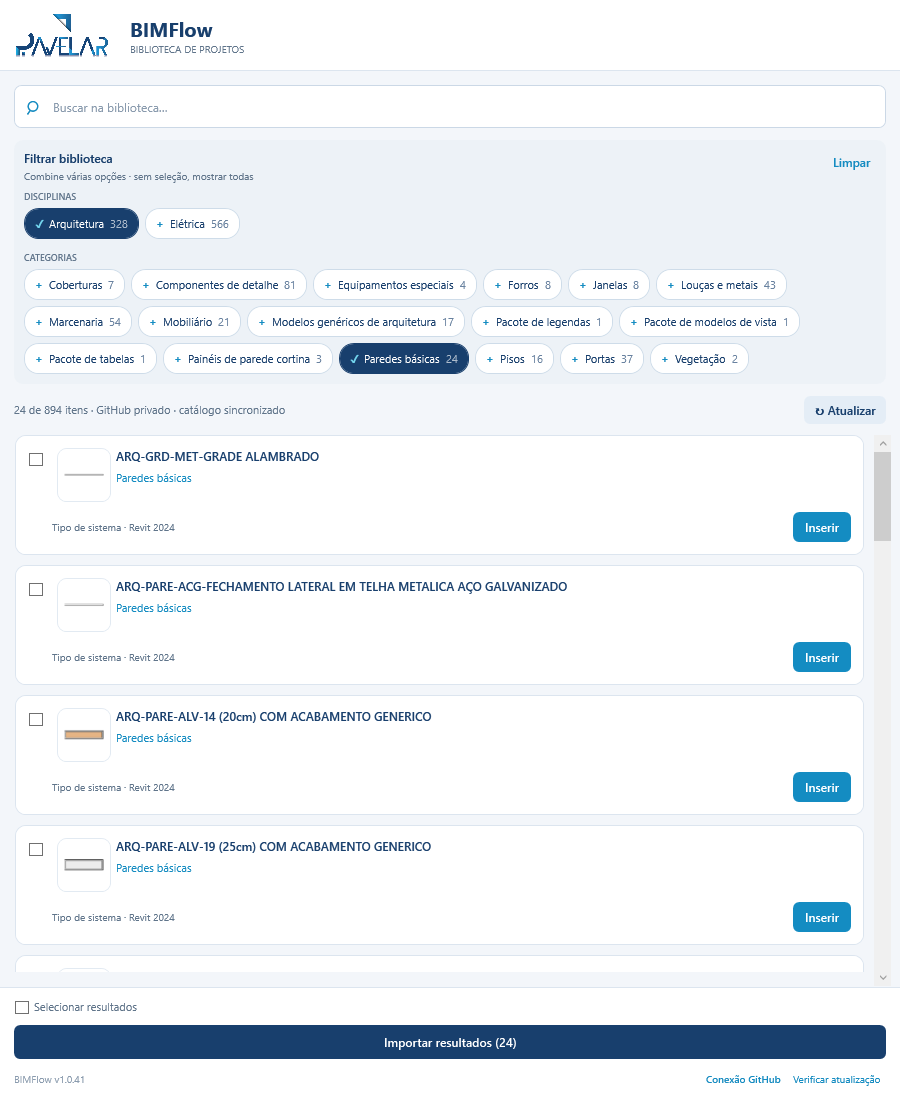
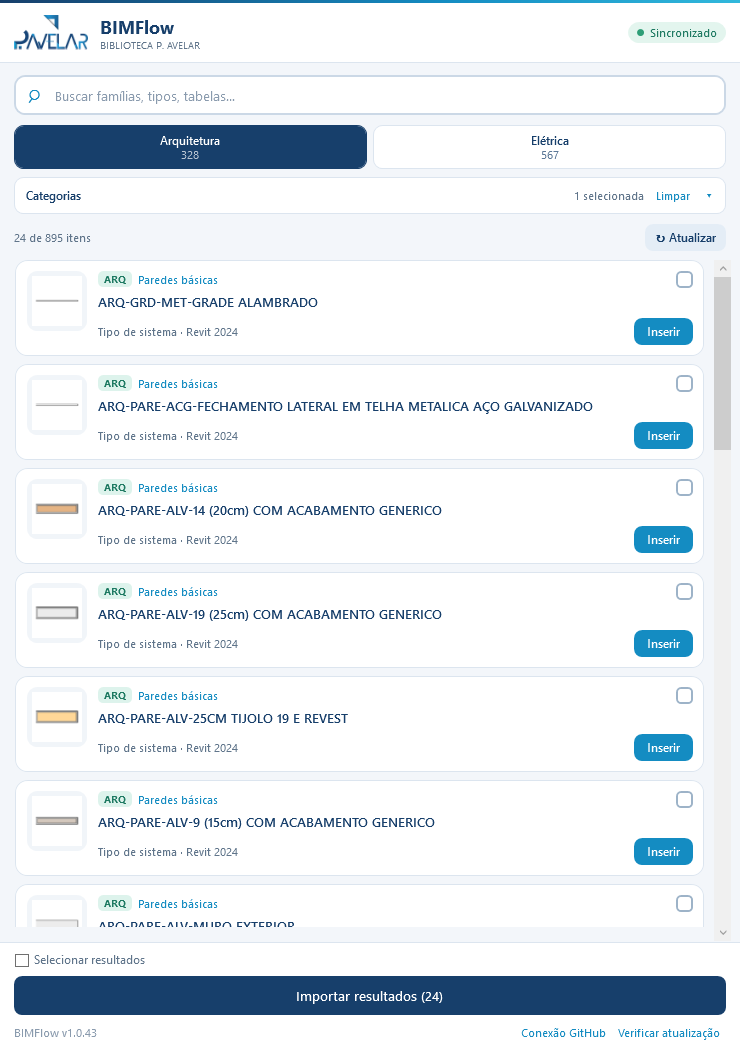
Document shared installer maintenance, completed roadmap and current library panel

diff --git a/index.html b/index.html
@@ -1,33 +1,28 @@
 <!doctype html>
 <html lang="pt-BR"><head><meta charset="utf-8"><meta name="viewport" content="width=device-width,initial-scale=1"><meta name="description" content="Guia de operação e continuidade do BIMFlow: biblioteca P. Avelar, arquitetura, elétrica, publicação no GitHub e próximos passos."><meta name="theme-color" content="#173f6b"><title>BIMFlow · P. Avelar | Guia da biblioteca</title><link rel="stylesheet" href="guia/estilo.css"></head><body>
 <header><div class="topbar"><a class="brand" href="#inicio"><img src="guia/pavelar-logo.png" alt="P. Avelar"><span>BIMFlow<small>BIBLIOTECA CORPORATIVA</small></span></a><nav aria-label="Navegação principal"><a href="#entregas">Entregas</a><a href="#roadmap">Evolução</a><a href="#operacao">Como usar</a><a href="#instalacao">Instalação</a><a href="#continuidade">Continuidade</a></nav><div class="top-actions"><a class="button light" href="#instalacao">Instalações</a><button class="button" id="imprimir">Imprimir / PDF</button></div></div></header>
-<section class="hero" id="inicio"><div class="hero-grid" aria-hidden="true"></div><div class="hero-inner"><div class="eyebrow">P. AVELAR · BIBLIOTECA E PADRONIZAÇÃO BIM</div><div class="hero-columns"><div><h1>Uma biblioteca.<br>Um caminho para<br><em>todas as disciplinas.</em></h1><p>O BIMFlow reúne busca, importação e publicação de conteúdo Revit. Elétrica e arquitetura iniciam uma estrutura que pode ser mantida e ampliada pela equipe BIM.</p><div class="hero-actions"><a class="button cyan" href="#roadmap">Ver evolução <span>↓</span></a><a class="hero-link" href="#operacao">Consultar o procedimento →</a></div><div class="hero-meta"><span>Revit 2024 / 2025*</span><span>Biblioteca privada</span><span id="data-atualizacao">Atualizado em 27/10/2026</span></div></div><aside class="hero-summary"><span class="eyebrow">RESULTADO DO ACERVO ATUAL</span><div class="hero-total"><strong id="total-tipos">889</strong><span>tipos catalogados<br>nas duas disciplinas</span></div><div class="hero-breakdown"><div><span>Elétrica</span><b>564 tipos</b></div><div><span>Arquitetura</span><b>325 tipos</b></div><div><span>Pacotes de vistas</span><b>5 pacotes</b></div></div><p>Tipos e pacotes são contagens diferentes. O painel reúne <b id="total-itens">894 itens</b>.</p><div class="hero-state"><i></i><span>Distribuição GitHub em validação final</span></div></aside></div></div></section>
-<main><div class="release-note"><span class="pill validation">EM HOMOLOGAÇÃO</span><p>A <a id="release-atual" href="https://github.com/RodriguesAlexandre/bimflow-revit-plugin/releases/tag/v1.0.41">v1.0.41</a> está publicada e no <a href="#instalacao">instalador da rede</a> (código preparado: <b id="versao-preparada">v1.0.41</b>). Falta homologar o fluxo online dentro do Revit.</p></div>
-<section id="entregas"><div class="section-heading"><div><span class="eyebrow">01 · ENTREGAS E NÚMEROS</span><h2>Conteúdo de duas disciplinas.<br>Uma estrutura compartilhada.</h2></div><p>Quantidades conferidas nos catálogos exportados. Cada tipo é uma opção Revit; tabelas, legendas e modelos são reunidos em pacotes.</p></div><div id="disciplinas-cards" class="discipline-grid"></div><div class="table-card"><table><thead><tr><th>Conteúdo</th><th>Elétrica</th><th>Arquitetura</th><th>Como aparece no painel</th></tr></thead><tbody id="numeros-corpo"></tbody></table></div><div class="delivery-strip"><div><b>24</b><span>paredes básicas<br>de arquitetura</span></div><div><b>16 / 8 / 7</b><span>pisos / forros / coberturas<br>de arquitetura</span></div><div><b>48</b><span>modelos de vista<br>exportados em arquitetura</span></div><div><b>30</b><span>verificações da<br>integração online aprovadas</span></div></div><p class="caption">Elétrica tem 7 tipos de eletrodutos e 4 de eletrocalhas. Modelos de vista também são suportados em elétrica, mas ainda não constam no pacote elétrico migrado; entram na próxima exportação dessa disciplina.</p></section>
-<section id="roadmap"><div class="section-heading"><div><span class="eyebrow">02 · EVOLUÇÃO DA SOLUÇÃO</span><h2>O que está entregue.<br>O que vem a seguir.</h2></div><div class="status-filters" aria-label="Destacar etapas por situação"><button data-filter="todos" aria-pressed="true">Todas</button><button data-filter="concluido" aria-pressed="false">Concluídas</button><button data-filter="validacao" aria-pressed="false">Em validação</button><button data-filter="pendente" aria-pressed="false">Pendentes</button></div></div><div class="roadmap-surface"><div class="roadmap-caption"><span>P. AVELAR · BIMFLOW</span><b>Do acervo aprovado à operação corporativa</b></div><div id="roadmap-steps" class="roadmap-chain"></div><div class="flow-legend"><span><i class="green"></i> Recurso implementado</span><span><i class="amber"></i> Validação e publicação final</span><span><i class="blue"></i> Próximas entregas</span></div></div><p id="filter-note" class="caption" aria-live="polite">Leia da esquerda para a direita, linha por linha. Os filtros destacam as etapas sem apagar o caminho.</p></section>
+<section class="hero" id="inicio"><div class="hero-grid" aria-hidden="true"></div><div class="hero-inner"><div class="eyebrow">P. AVELAR · BIBLIOTECA E PADRONIZAÇÃO BIM</div><div class="hero-columns"><div><h1>Uma biblioteca.<br>Um caminho para<br><em>todas as disciplinas.</em></h1><p>O BIMFlow reúne busca, importação e publicação de conteúdo Revit. Elétrica e arquitetura iniciam uma estrutura que pode ser mantida e ampliada pela equipe BIM.</p><div class="hero-actions"><a class="button cyan" href="#roadmap">Ver evolução <span>↓</span></a><a class="hero-link" href="#operacao">Consultar o procedimento →</a></div><div class="hero-meta"><span>Revit 2024 / 2025*</span><span>Biblioteca privada</span><span id="data-atualizacao">Atualizado em 27/10/2026</span></div></div><aside class="hero-summary"><span class="eyebrow">RESULTADO DO ACERVO ATUAL</span><div class="hero-total"><strong id="total-tipos">889</strong><span>tipos catalogados<br>nas duas disciplinas</span></div><div class="hero-breakdown"><div><span>Elétrica</span><b>564 tipos</b></div><div><span>Arquitetura</span><b>325 tipos</b></div><div><span>Pacotes de vistas</span><b>6 pacotes</b></div></div><p>Tipos e pacotes são contagens diferentes. O painel reúne <b id="total-itens">895 itens</b>.</p><div class="hero-state"><i></i><span>Elétrica e arquitetura no GitHub privado</span></div></aside></div></div></section>
+<main><div class="release-note"><span class="pill done">VERSÃO ATUALIZADA</span><p>A <a id="release-atual" href="https://github.com/RodriguesAlexandre/bimflow-revit-plugin/releases/tag/v1.0.43">v1.0.43</a> corrige a confirmação do upload no Revit 2024 e está no <a href="#instalacao">instalador compartilhado</a> (código: <b id="versao-preparada">v1.0.43</b>). O fluxo foi homologado pela equipe; a manutenção do instalador fica no Drive.</p></div>
+<section id="entregas"><div class="section-heading"><div><span class="eyebrow">01 · ENTREGAS E NÚMEROS</span><h2>Conteúdo de duas disciplinas.<br>Uma estrutura compartilhada.</h2></div><p>Quantidades conferidas nos catálogos exportados. Cada tipo é uma opção Revit; tabelas, legendas e modelos são reunidos em pacotes.</p></div><div id="disciplinas-cards" class="discipline-grid"></div><div class="table-card"><table><thead><tr><th>Conteúdo</th><th>Elétrica</th><th>Arquitetura</th><th>Como aparece no painel</th></tr></thead><tbody id="numeros-corpo"></tbody></table></div><div class="delivery-strip"><div><b>24</b><span>paredes básicas<br>de arquitetura</span></div><div><b>16 / 8 / 7</b><span>pisos / forros / coberturas<br>de arquitetura</span></div><div><b>60</b><span>modelos de vista<br>12 elétrica · 48 arquitetura</span></div><div><b>33</b><span>verificações da<br>integração online aprovadas</span></div></div><p class="caption">Elétrica tem 7 tipos de eletrodutos e 4 de eletrocalhas. Os pacotes incluem 12 modelos de vista de elétrica e 48 de arquitetura.</p></section>
+<section id="roadmap"><div class="section-heading"><div><span class="eyebrow">02 · EVOLUÇÃO DA SOLUÇÃO</span><h2>O que está entregue.<br>O que vem a seguir.</h2></div><div class="status-filters" aria-label="Destacar etapas por situação"><button data-filter="todos" aria-pressed="true">Todas</button><button data-filter="concluido" aria-pressed="false">Concluídas</button><button data-filter="andamento" aria-pressed="false">Em trabalho</button><button data-filter="pendente" aria-pressed="false">Pendentes</button></div></div><div class="roadmap-surface"><div class="roadmap-caption"><span>P. AVELAR · BIMFLOW</span><b>Do acervo aprovado à operação corporativa</b></div><div id="roadmap-steps" class="roadmap-chain"></div><div class="flow-legend"><span><i class="green"></i> Recurso implementado</span><span><i class="amber"></i> Atividade em trabalho</span><span><i class="blue"></i> Próximas entregas</span></div></div><p id="filter-note" class="caption" aria-live="polite">Leia da esquerda para a direita, linha por linha. Os filtros destacam as etapas sem apagar o caminho.</p></section>
 <section id="fluxo"><div class="section-heading"><div><span class="eyebrow">03 · COMO A BIBLIOTECA CIRCULA</span><h2>Publicar uma revisão.<br>Distribuir sem depender do Drive.</h2></div><p>O setor BIM prepara o conteúdo. Os projetistas consultam o catálogo online e baixam apenas os modelos necessários para o computador.</p></div><div class="process-flow"><article><span>01</span><h3>RVT aprovado</h3><p>Qualquer nome e pasta, com as alterações salvas.</p></article><article><span>02</span><h3>Exportação local</h3><p>RFAs, RVT, JSONs, imagens e relatório são gerados e validados.</p></article><article><span>03</span><h3>GitHub privado</h3><p>Catálogos no repositório; arquivos pesados nas Releases.</p></article><article><span>04</span><h3>Painel + cache</h3><p>Lista e miniaturas primeiro. RFA ou RVT baixado sob demanda.</p></article><article><span>05</span><h3>Projeto Revit</h3><p>Importação e solicitação da ferramenta de inserção.</p></article></div><div class="two-col"><div class="card"><h3>Uma revisão só entra quando está pronta</h3><p>A publicação é montada em rascunho. Depois do envio e das conferências, um único commit atualiza o índice e os catálogos. Falhas não devem substituir a revisão ativa.</p><p class="muted">Arquivos baixados são conferidos por SHA-256. O cache permite reutilizar conteúdo já recebido; sem uma primeira sincronização, não há biblioteca offline.</p></div><div class="card"><h3>Acesso fora da DLL</h3><p>As credenciais ficam no <b>Gerenciador de Credenciais do Windows</b>, por usuário do computador. O painel tem a opção <b>Conexão GitHub</b>.</p><p class="muted">Leitura para projetistas; publicação para o setor BIM. O token precisa ter acesso ao repositório privado. Nenhum token deve entrar no código, no JSON do catálogo ou no site.</p></div></div></section>
-<section id="interface"><div class="section-heading"><div><span class="eyebrow">04 · INTERFACE E COMANDOS</span><h2>Uma entrada para buscar.<br>Uma rotina para manter.</h2></div><p>O painel concentra busca e importação. Os comandos de gestão ficam separados das ferramentas de padronização.</p></div><figure class="ribbon-figure"><img src="guia/ribbon-atual.svg" alt="Ribbon BIMFlow: Biblioteca BIMFlow; Exportar Catálogo e Publicar Biblioteca; Parâmetros de Folhas"><figcaption>Representação da ribbon preparada no código v1.0.41, usando os ícones reais. A instalação desta versão e a conferência no Revit ainda fazem parte da homologação.</figcaption></figure><div class="table-card"><table><thead><tr><th>Painel</th><th>Comando</th><th>Finalidade</th></tr></thead><tbody><tr><td>Biblioteca</td><td>Biblioteca BIMFlow</td><td>Buscar, filtrar, selecionar, importar e iniciar a inserção do conteúdo.</td></tr><tr><td>Gestão da biblioteca</td><td>Exportar Catálogo</td><td>Preparar a disciplina e, opcionalmente, publicar a revisão no GitHub.</td></tr><tr><td>Gestão da biblioteca</td><td>Publicar Biblioteca</td><td>Enviar um pacote local já exportado, sem processar o RVT novamente.</td></tr><tr><td>Padronização</td><td>Parâmetros de Folhas</td><td>Carregar ou verificar os parâmetros compartilhados corporativos de folhas.</td></tr></tbody></table></div><div class="two-col interface-block"><div><h3>O painel evita etapas repetidas</h3><ul class="check-list"><li>Busca por nomes, palavras e quantidades, combinada com filtros de disciplina e categoria.</li><li>Importação individual, por seleção ou de todos os resultados filtrados.</li><li>Reutilização de tipos já existentes no projeto, com validações dos sistemas suportados.</li><li>Pacotes de tabelas, legendas e modelos de vista.</li><li>Credenciais individuais e indicação de catálogo sincronizado ou cache offline.</li></ul><div class="note"><b>Modelos de vista:</b> são importados como modelos; não são aplicados automaticamente às vistas existentes. Modelos com mesmo nome e tipo no destino são preservados.</div></div><figure><img id="painel-imagem" class="panel-image" src="guia/painel-online.png" alt="Prévia da interface BIMFlow com disciplinas e categorias da biblioteca"><figcaption>Prévia renderizada a partir da interface preparada e dos catálogos reais. Não substitui o teste de importação e inserção dentro do Revit.</figcaption></figure></div><details class="video-details"><summary>Ver demonstração do piloto elétrico</summary><video controls autoplay muted loop playsinline preload="metadata"><source data-src="demonstracao-bimflow.mp4" type="video/mp4"></video><p class="caption">Gravação do piloto anterior à integração GitHub. Serve como referência do fluxo de busca e inserção; os rótulos e comandos atuais estão descritos acima.</p></details></section>
+<section id="interface"><div class="section-heading"><div><span class="eyebrow">04 · INTERFACE E COMANDOS</span><h2>Uma entrada para buscar.<br>Uma rotina para manter.</h2></div><p>O painel concentra busca e importação. Os comandos de gestão ficam separados das ferramentas de padronização.</p></div><figure class="ribbon-figure"><img src="guia/ribbon-atual.svg" alt="Ribbon BIMFlow: Biblioteca BIMFlow; Exportar Catálogo e Publicar Biblioteca; Parâmetros de Folhas"><figcaption>Representação da ribbon preparada no código v1.0.43, usando os ícones reais. O painel e o instalador usam a versão atual.</figcaption></figure><div class="table-card"><table><thead><tr><th>Painel</th><th>Comando</th><th>Finalidade</th></tr></thead><tbody><tr><td>Biblioteca</td><td>Biblioteca BIMFlow</td><td>Buscar, filtrar, selecionar, importar e iniciar a inserção do conteúdo.</td></tr><tr><td>Gestão da biblioteca</td><td>Exportar Catálogo</td><td>Preparar a disciplina e, opcionalmente, publicar a revisão no GitHub.</td></tr><tr><td>Gestão da biblioteca</td><td>Publicar Biblioteca</td><td>Enviar um pacote local já exportado, sem processar o RVT novamente.</td></tr><tr><td>Padronização</td><td>Parâmetros de Folhas</td><td>Carregar ou verificar os parâmetros compartilhados corporativos de folhas.</td></tr></tbody></table></div><div class="two-col interface-block"><div><h3>O painel evita etapas repetidas</h3><ul class="check-list"><li>Busca por nomes, palavras e quantidades, combinada com filtros de disciplina e categoria.</li><li>Importação individual, por seleção ou de todos os resultados filtrados.</li><li>Reutilização de tipos já existentes no projeto, com validações dos sistemas suportados.</li><li>Pacotes de tabelas, legendas e modelos de vista.</li><li>Credenciais individuais e indicação de catálogo sincronizado ou cache offline.</li></ul><div class="note"><b>Modelos de vista:</b> são importados como modelos; não são aplicados automaticamente às vistas existentes. Modelos com mesmo nome e tipo no destino são preservados.</div></div><figure><img id="painel-imagem" class="panel-image" src="guia/painel-online.png" alt="Prévia da interface BIMFlow com disciplinas e categorias da biblioteca"><figcaption>Prévia renderizada a partir da interface preparada e dos catálogos reais. Interface atualizada com cabeçalho de sincronização, categorias recolhíveis e identificação da disciplina.</figcaption></figure></div><details class="video-details"><summary>Ver demonstração do piloto elétrico</summary><video controls autoplay muted loop playsinline preload="metadata"><source data-src="demonstracao-bimflow.mp4" type="video/mp4"></video><p class="caption">Gravação do piloto anterior à integração GitHub. Serve como referência do fluxo de busca e inserção; os rótulos e comandos atuais estão descritos acima.</p></details></section>
 <section id="operacao"><div class="section-heading"><div><span class="eyebrow">05 · PROCEDIMENTO DE OPERAÇÃO</span><h2>Quem faz o quê.</h2></div><p>Use os procedimentos abaixo para trabalhar no projeto, atualizar o acervo e manter a solução.</p></div><div class="role-tabs" role="tablist" aria-label="Procedimentos por perfil"><button id="tab-projetista" role="tab" data-role="projetista" aria-selected="true" aria-controls="role-projetista">Projetista</button><button id="tab-bim" role="tab" data-role="bim" aria-selected="false" aria-controls="role-bim">Setor BIM</button><button id="tab-manutencao" role="tab" data-role="manutencao" aria-selected="false" aria-controls="role-manutencao">Manutenção</button></div><div id="role-projetista" class="role-panel" role="tabpanel" aria-labelledby="tab-projetista"><ol class="numbered"><li><b>Instalar e acessar.</b> Fechar o Revit, rodar o <a href="#instalacao">instalador da rede</a> e configurar a credencial de leitura em Conexão GitHub.</li><li><b>Sincronizar.</b> Abrir o projeto e clicar em Atualizar no painel. Conferir as disciplinas disponíveis.</li><li><b>Buscar e inserir.</b> Combinar texto e filtros. Ao clicar em Inserir, o plugin baixa o conteúdo necessário, importa e solicita a ferramenta nativa de criação.</li><li><b>Trabalhar com pacotes.</b> Importar tabelas, legendas ou modelos de vista. Aplicar modelos às vistas pelo Revit.</li></ol><p class="muted">Se o tipo exigir hospedeiro, vista compatível ou desenho de contorno, o Revit solicitará essa interação. O painel não elimina essas condições de criação.</p></div><div id="role-bim" class="role-panel" role="tabpanel" aria-labelledby="tab-bim" hidden><ol class="numbered"><li><b>Curar o RVT.</b> Carregar as famílias aprovadas, revisar nomes e tipos, tabelas, legendas e modelos. Salvar as alterações.</li><li><b>Escolher a disciplina.</b> Executar Exportar Catálogo. O RVT pode ter qualquer nome e estar em qualquer pasta acessível.</li><li><b>Preparar e conferir.</b> Aguardar a coleta e validar o relatório. Tipos sem instâncias também são inventariados. Genéricos exigem prefixo ELD- ou ARQ- conforme a disciplina.</li><li><b>Publicar.</b> Manter a opção de publicação no GitHub marcada ou usar Publicar Biblioteca sobre um pacote local pronto.</li><li><b>Homologar e comunicar.</b> Testar em um projeto de destino e informar a revisão liberada à equipe.</li></ol><p class="muted">A publicação exige credencial com permissão de escrita. Se o envio falhar, o pacote local pode ser reenviado; não é necessário repetir toda a exportação.</p></div><div id="role-manutencao" class="role-panel" role="tabpanel" aria-labelledby="tab-manutencao" hidden><ol class="numbered"><li><b>Obter o código.</b> Clonar o repositório do plugin e abrir BIMFlow/BIMFlow.sln. As classes estão separadas em Commands, Models, Services e UI.</li><li><b>Executar as verificações.</b> Compilar em Release para net48/Revit 2024 e net8.0-windows/Revit 2025. Executar o projeto BIMFlow.Library.Tests.</li><li><b>Homologar no Revit.</b> Testar exportação, publicação, leitura, importação e inserção. Não considerar a compilação como homologação funcional.</li><li><b>Versionar e publicar.</b> Atualizar a versão do projeto e as notas da release. O workflow de publicação do plugin é disparado por uma tag v*.</li><li><b>Distribuir.</b> Conferir o BIMFlow.zip da release. Fechar o Revit antes de substituir os arquivos instalados; manter backup da versão anterior.</li></ol><p class="muted">A release do plugin e as revisões da biblioteca são independentes. Publicar uma DLL não atualiza os catálogos e publicar famílias não troca a DLL dos usuários.</p></div></section>
 <section id="instalacao"><div class="section-heading"><div><span class="eyebrow">06 · INSTALAÇÃO E ATUALIZAÇÃO</span><h2>Instalar pela rede.<br>Acompanhar quem está atualizado.</h2></div><p>O instalador fica no Drive compartilhado. O dashboard mostra a versão do plugin em cada computador que abriu o Revit.</p></div>
 <div class="install-grid">
 <div class="card install-card"><span class="pill done">PROJETISTA</span><h3>Instalar ou atualizar o BIMFlow</h3><ol class="numbered compact"><li><b>Feche o Revit.</b> O instalador avisa e espera se ele estiver aberto.</li><li><b>Execute o instalador da rede.</b><code class="path">G:\Drives compartilhados\BIM\PLUG INS\BIMFlow\Instalador_BIMFlow.exe</code></li><li><b>Avance até concluir.</b> Não pede administrador e instala para Revit 2024 e 2025.</li><li><b>Abra o Revit e confira.</b> O rodapé do painel BIMFlow mostra a versão instalada.</li><li><b>Configure o acesso.</b> No painel, em Conexão GitHub, informe a credencial de leitura entregue pelo setor BIM.</li></ol><p class="muted">Instalar de novo sobre uma versão anterior substitui os arquivos. Não é preciso desinstalar antes.</p></div>
 <div class="card live-card" id="painel-instalacoes"><div class="live-head"><span class="pill validation">DASHBOARD DE INSTALAÇÕES</span><span class="live-state" id="inst-estado">Carregando…</span></div><h3>Versão de referência <b id="inst-ref">—</b></h3><div class="live-numbers"><div><strong id="inst-total">—</strong><span>instalações<br>registradas</span></div><div class="ok"><strong id="inst-ok">—</strong><span>na referência<br>ou acima</span></div><div class="warn"><strong id="inst-baixo">—</strong><span>abaixo da<br>referência</span></div></div><div class="live-list-title">Precisam atualizar</div><ul class="live-list" id="inst-lista"><li class="muted">—</li></ul><a class="button" href="telemetria/">Abrir dashboard completo ↗</a><p class="muted live-note">Cada instalação é um computador + versão do Revit, registrada quando o plugin abre. Sem contato recente não significa que a máquina esteja desligada.</p></div>
 </div>
-<details class="card build-card" open><summary>Manutenção · Gerar um novo instalador</summary><p>O instalador é gerado com o <b>Inno Setup 6</b> a partir da pasta <code>D:\BIMFLOW\P. AVELAR\PLUGIN NOVO</code>. Faça isso depois de publicar e homologar uma release do plugin.</p><ol class="numbered"><li><b>Compile em Release.</b> No Visual Studio, abra <code>BIMFlow.sln</code>, selecione Release e use Build &gt; Build Solution. A versão vem de <code>&lt;Version&gt;</code> no BIMFlow.Extension.csproj.</li><li><b>Atualize a pasta Base.</b> Copie as saídas da compilação para as pastas indicadas abaixo, substituindo os arquivos. Não coloque backups, DLLs antigas nem arquivos de teste na Base: tudo que estiver nela vai para o computador do usuário.</li><li><b>Troque a versão no script.</b> Abra <code>Script_BIMFlow.iss</code> no Inno Setup Compiler e altere a linha <code>#define AppVer "1.0.41"</code>.</li><li><b>Compile o instalador.</b> Build &gt; Compile (Ctrl+F9). O arquivo sai em <code>BIMFlow_Output\Instalador_BIMFlow_v&lt;versão&gt;.exe</code>.</li><li><b>Teste.</b> Com o Revit fechado, instale em um computador e confira a versão no rodapé do painel, no Revit 2024 e, se houver, no 2025.</li><li><b>Publique na rede.</b> Mova o instalador atual para <code>PLUG INS\BIMFlow\Versões anteriores</code> e copie o novo com o nome fixo <code>Instalador_BIMFlow.exe</code>.</li><li><b>Atualize a referência do dashboard.</b> Em <code>telemetria/config.json</code> deste site, ajuste <code>referenceVersion</code> e <code>referenceRelease</code> e envie ao GitHub.</li></ol>
-<div class="two-col build-detail"><div><h4>Origem → destino na Base</h4><div class="table-card"><table class="mini-table"><thead><tr><th>Copiar de (repositório)</th><th>Para (Base)</th></tr></thead><tbody><tr><td>BIMFlow.Extension\bin\Release\net48\</td><td>BIMFlow\net48\</td></tr><tr><td>BIMFlow.Extension\bin\Release\net8.0-windows\ + Octokit.dll</td><td>BIMFlow\net8.0-windows\</td></tr><tr><td>BIMFlow.Updater\bin\Release\net8.0\ (sem .pdb)</td><td>BIMFlow\Updater\</td></tr></tbody></table></div><p class="muted">Copie DLL, Octokit.dll, deps.json, o TXT de parâmetros compartilhados e a pasta Resource. Os arquivos .pdb e .addin da pasta bin não são necessários.</p></div><pre>PLUGIN NOVO\
+<details class="card build-card" open><summary>Manutenção · Gerar um novo instalador</summary><p>A fonte, os pacotes e a compilação ficam no Drive compartilhado. O processo usa a própria pasta como base, sem depender do D: ou do computador de quem criou o plugin.</p><code class="path">G:\Drives compartilhados\BIM\PLUG INS\BIMFlow\MANUTENÇÃO INSTALADOR</code><ol class="numbered"><li><b>Preparar a release.</b> Compilar, testar e publicar o plugin. Baixar o <code>BIMFlow.zip</code> da release com uma conta autorizada e salvar em <code>PACOTES</code>.</li><li><b>Gerar.</b> Com Inno Setup 6 instalado, abrir PowerShell na pasta de manutenção e executar o comando abaixo. A versão é lida da DLL, e os pacotes de 2024 e 2025 são conferidos.</li><li><b>Testar.</b> Executar o instalador de <code>SAIDA</code> com Revit fechado e conferir a versão do painel.</li><li><b>Disponibilizar.</b> Repetir o comando com <code>-Publicar</code>. O executável de uso da equipe é atualizado e o anterior fica em <code>BACKUPS</code>.</li><li><b>Atualizar o acompanhamento.</b> Ajustar a versão de referência em <code>telemetria/config.json</code> e os dados deste guia. Conferir o GitHub Pages.</li></ol><pre>.\Atualizar-Instalador.ps1 -Pacote '.\PACOTES\BIMFlow-v1.0.43.zip'
+# Após o teste, acrescentar -Publicar ao comando.</pre><div class="two-col build-detail"><div><h4>Uma base compartilhada para a equipe</h4><p>O script prepara <code>BASE</code> a partir do ZIP da release, mantém as bases anteriores e compila <code>Script_BIMFlow.iss</code>. O <code>LEIA-ME.md</code> detalha a operação.</p><p>Os fontes também estão em <code>distribuicao/instalador</code> no repositório do plugin. Não incluir credenciais na BASE; cada usuário configura seu próprio acesso.</p></div><pre>MANUTENÇÃO INSTALADOR/
+├── Atualizar-Instalador.ps1
 ├── Script_BIMFlow.iss
-├── Base\
-│   ├── 2024\BIMFlow.addin   → aponta para net48
-│   ├── 2025\BIMFlow.addin   → aponta para net8.0-windows
-│   └── BIMFlow\
-│       ├── net48\           (Revit 2024)
-│       ├── net8.0-windows\  (Revit 2025)
-│       └── Updater\
-└── BIMFlow_Output\
-    └── Instalador_BIMFlow_v1.0.41.exe</pre></div>
-<p class="muted">Os dois arquivos .addin são diferentes de propósito: o Revit 2025 precisa carregar a DLL .NET 8. Não use o mesmo .addin para as duas versões. Eles só mudam se mudar o caminho da DLL ou a classe de entrada do plugin.</p></details>
-</section>
-<section id="pastas"><div class="section-heading"><div><span class="eyebrow">07 · REPOSITÓRIOS, PASTAS E DADOS</span><h2>Organização que permite continuar.</h2></div><p>As responsabilidades são separadas para manter código, acervo e documentação sem misturar os arquivos pesados.</p></div><div class="repo-grid"><a class="repo-card" href="https://github.com/RodriguesAlexandre/bimflow-revit-plugin"><span>01 · CÓDIGO</span><h3>bimflow-revit-plugin ↗</h3><p>Solução C#, interface, importadores, exportador, testes e publicação da DLL.</p></a><a class="repo-card" href="https://github.com/RodriguesAlexandre/bimflow-biblioteca"><span>02 · ACERVO PRIVADO</span><h3>bimflow-biblioteca ↗</h3><p>Índice, catálogos por disciplina e revisões com RFAs, RVTs e metadados.</p></a><a class="repo-card" href="https://github.com/RodriguesAlexandre/bimflow-acompanhamento"><span>03 · DOCUMENTAÇÃO</span><h3>bimflow-acompanhamento ↗</h3><p>Este guia e o dashboard de instalações, publicados no GitHub Pages.</p></a></div><figure class="folder-figure"><img src="guia/estrutura-atual.svg" alt="Estrutura do repositório privado de biblioteca, Releases e cache local"><figcaption>Pastas de disciplinas em maiúsculas, com nomes completos; apenas SPDA permanece abreviada. Arquivos pesados ficam nas Releases, mantendo seus caminhos originais pelo manifesto.</figcaption></figure><div class="two-col"><details class="card"><summary>Estrutura local gerada pelo publicador</summary><pre>%LOCALAPPDATA%\BIMFlow\Exportacoes\
+├── LEIA-ME.md
+├── BASE/
+├── PACOTES/
+├── SAIDA/
+└── BACKUPS/</pre></div></details></section>
+<section id="pastas"><div class="section-heading"><div><span class="eyebrow">07 · REPOSITÓRIOS, PASTAS E DADOS</span><h2>Organização que permite continuar.</h2></div><p>As responsabilidades são separadas para manter código, acervo e documentação sem misturar os arquivos pesados.</p></div><div class="note"><b>Repositórios privados:</b> código e acervo exigem login no GitHub com uma conta autorizada. Sem acesso, o GitHub exibe “404 / página não encontrada”. Solicite a liberação ao responsável BIM; o site de documentação é público.</div><div class="repo-grid"><a class="repo-card" href="https://github.com/RodriguesAlexandre/bimflow-revit-plugin"><span>01 · CÓDIGO</span><h3>bimflow-revit-plugin ↗</h3><p>Acesso restrito · Solução C#, interface, testes e publicação da DLL.</p></a><a class="repo-card" href="https://github.com/RodriguesAlexandre/bimflow-biblioteca"><span>02 · ACERVO PRIVADO</span><h3>bimflow-biblioteca ↗</h3><p>Acesso restrito · Índice, catálogos e revisões com RFAs, RVTs e metadados.</p></a><a class="repo-card" href="https://github.com/RodriguesAlexandre/bimflow-acompanhamento"><span>03 · DOCUMENTAÇÃO</span><h3>bimflow-acompanhamento ↗</h3><p>Este guia e o dashboard de instalações, publicados no GitHub Pages.</p></a></div><figure class="folder-figure"><img src="guia/estrutura-atual.svg" alt="Estrutura do repositório privado de biblioteca, Releases e cache local"><figcaption>Pastas de disciplinas em maiúsculas, com nomes completos; apenas SPDA permanece abreviada. Arquivos pesados ficam nas Releases, mantendo seus caminhos originais pelo manifesto.</figcaption></figure><div class="two-col"><details class="card"><summary>Estrutura local gerada pelo publicador</summary><pre>%LOCALAPPDATA%\BIMFlow\Exportacoes\
 ├── ELÉTRICA\2024\
 │   ├── FAMÍLIAS CARREGÁVEIS\CATEGORIA\
 │   ├── FAMÍLIAS SISTEMA\
@@ -71,5 +66,5 @@ BIMFlow.Library.Tests/
   }]
 }</pre><p class="muted">Exemplo explicativo. Os IDs e os caminhos válidos são gerados pelo exportador; não usar este trecho como catálogo de produção.</p></details></section>
 <section id="continuidade"><div class="section-heading"><div><span class="eyebrow">08 · CONTINUIDADE E PRÓXIMAS ENTREGAS</span><h2>Manter, validar e ampliar.</h2></div><p>As próximas atividades organizam a operação corporativa e a evolução do plugin.</p></div><div class="next-grid"><article class="next-card priority"><span class="pill planned">PRIORIDADE · GOVERNANÇA</span><h3>GitHub da P. Avelar</h3><p>Transferir os três repositórios da conta pessoal para a organização da empresa. Definir responsáveis, permissões de leitura e publicação e a continuidade do workflow de releases.</p><ul><li>Atualizar proprietário e endereço da biblioteca no plugin.</li><li>Revisar credenciais e acesso da equipe.</li><li>Conferir o novo endereço do site e do dashboard.</li></ul></article><article class="next-card"><span class="pill planned">PRÓXIMA FRENTE · COMANDOS</span><h3>Reaproveitar o plugin legado</h3><p>Levantar os comandos úteis do plugin antigo independente, de elétrica e outras disciplinas. Esse acervo não é apenas uma versão anterior desta solução.</p><ul><li>Catalogar finalidade, dependências e disciplina.</li><li>Priorizar e revisar cada comando antes de integrar.</li><li>Organizar na solução atual e testar no Revit.</li></ul></article><article class="next-card"><span class="pill planned">EXPANSÃO · DISCIPLINAS</span><h3>Repetir o processo com critério</h3><p>Hidrossanitário, incêndio, SPDA, climatização e estrutura têm estrutura prevista. Precisam de seleção de categorias, exportador e validações próprios antes da liberação.</p><ul><li>Definir o responsável pelo RVT aprovado.</li><li>Testar tipos, configurações, pacotes e inserção.</li><li>Publicar somente após homologação.</li></ul></article></div><div class="handoff-card"><div><span class="eyebrow">CHECKLIST DE CONTINUIDADE</span><h3>Antes de liberar uma revisão</h3><p>Uma compilação bem-sucedida não substitui a validação no Revit.</p></div><ul><li>Conferir relatórios e quantidade de tipos.</li><li>Confirmar os três JSONs e os arquivos referenciados.</li><li>Testar a publicação e a leitura com permissão de projetista.</li><li>Testar inserção hospedada, sistemas e pacotes.</li><li>Registrar mudanças e limitações na release.</li><li>Manter a revisão anterior acessível para recuperação.</li></ul></div></section>
-<section id="limites" class="limits-section"><span class="eyebrow">LIMITES E DIAGNÓSTICO</span><h2>O que ainda precisa de atenção.</h2><div class="faq"><details><summary>Paredes e sistemas especiais</summary><p>Paredes básicas de camadas uniformes são elegíveis. Paredes cortina/empilhadas, composições não homogêneas ao longo da altura e decks estruturais permanecem fora desta fase. As comparações de materiais não certificam todos os assets de aparência ou propriedades físicas.</p></details><details><summary>Tipos com o mesmo nome no destino</summary><p>Os tipos existentes são preservados. Divergências detectadas nas configurações ou composições dos sistemas interrompem e revertem o lote. Revisar o tipo ou material no destino antes de repetir.</p></details><details><summary>Legendas e modelos de vista</summary><p>Legendas precisam de uma legenda base compatível no projeto de destino. Modelos de vista não exigem essa base. Os modelos são disponibilizados, mas sua aplicação às vistas é uma escolha do usuário.</p></details><details><summary>Falhas de acesso ou biblioteca incompleta</summary><p>Conferir a credencial e a revisão publicada. O catálogo antigo fixo no D: foi removido: a falta da biblioteca deve ser informada, sem mostrar itens do piloto como se fossem dados atualizados.</p></details><details><summary>Compatibilidade e homologação</summary><p>O código compila para Revit 2024 e 2025. A exportação de arquitetura e seus 24 tipos de parede foram conferidos no catálogo real. A nova integração online, modelos de vista e inserções precisam ser homologados nos projetos e versões de Revit usados pela equipe.</p></details></div></section>
+<section id="limites" class="limits-section"><span class="eyebrow">LIMITES E DIAGNÓSTICO</span><h2>O que ainda precisa de atenção.</h2><div class="faq"><details><summary>Paredes e sistemas especiais</summary><p>Paredes básicas de camadas uniformes são elegíveis. Paredes cortina/empilhadas, composições não homogêneas ao longo da altura e decks estruturais permanecem fora desta fase. As comparações de materiais não certificam todos os assets de aparência ou propriedades físicas.</p></details><details><summary>Tipos com o mesmo nome no destino</summary><p>Os tipos existentes são preservados. Divergências detectadas nas configurações ou composições dos sistemas interrompem e revertem o lote. Revisar o tipo ou material no destino antes de repetir.</p></details><details><summary>Legendas e modelos de vista</summary><p>Legendas precisam de uma legenda base compatível no projeto de destino. Modelos de vista não exigem essa base. Os modelos são disponibilizados, mas sua aplicação às vistas é uma escolha do usuário.</p></details><details><summary>Falhas de acesso ou biblioteca incompleta</summary><p>Conferir a credencial e a revisão publicada. O catálogo antigo fixo no D: foi removido: a falta da biblioteca deve ser informada, sem mostrar itens do piloto como se fossem dados atualizados.</p></details><details><summary>Compatibilidade e homologação</summary><p>O código compila para Revit 2024 e 2025. A exportação de arquitetura e seus 24 tipos de parede foram conferidos no catálogo real. O fluxo foi homologado pela equipe no Revit. Novos conteúdos, projetos e versões de Revit continuam sujeitos à validação antes da distribuição.</p></details></div></section>
 <footer><div class="brand footer-brand"><img src="guia/pavelar-logo.png" alt="P. Avelar"><span>BIMFlow<small>GUIA DE OPERAÇÃO E CONTINUIDADE</small></span></div><p>Dados de referência em 27/10/2026. Atualizar os números e estados do roadmap ao concluir novas revisões.</p><a href="telemetria/">Abrir dashboard de instalações ↗</a><a href="#inicio">Voltar ao início ↑</a></footer></main><dialog id="image-modal"><button id="close-image" aria-label="Fechar imagem">×</button><img alt="Imagem ampliada da documentação"><p></p></dialog><script src="guia/app.js"></script></body></html>

diff --git a/guia/app.js b/guia/app.js
@@ -4,7 +4,7 @@ const node=(tag,cls,text)=>{const n=document.createElement(tag);if(cls)n.classNa
 function render(data){id('data-atualizacao').textContent='Atualizado em '+data.atualizadoEm;id('total-tipos').textContent=data.disciplinas.reduce((n,d)=>n+d.tipos,0);id('total-itens').textContent=data.disciplinas.reduce((n,d)=>n+d.itensPainel,0)+' itens';id('versao-preparada').textContent='v'+data.versaoPreparada;id('release-atual').textContent='v'+data.ultimaRelease;id('release-atual').href='https://github.com/RodriguesAlexandre/bimflow-revit-plugin/releases/tag/v'+data.ultimaRelease;
  id('disciplinas-cards').replaceChildren(...data.disciplinas.map(d=>{const card=node('article','discipline-card');card.append(node('span','eyebrow','BIBLIOTECA · '+d.nome.toUpperCase()),node('h3','',d.nome),node('p','',d.descricao));const numbers=node('div','discipline-numbers'),detail=node('span');detail.append(node('b','',`${d.carregaveis} carregáveis + ${d.sistemas} sistemas`),document.createTextNode(`${d.pacotes} pacotes de vistas · ${d.itensPainel} itens no painel`));numbers.append(node('strong','',d.tipos),detail);const bottom=node('div','discipline-bottom');bottom.append(node('span','','tipos catalogados'),node('strong','',d.distribuicao));card.append(numbers,bottom);return card;}));
  const [ele,arq]=data.disciplinas;const rows=[['Tipos carregáveis',ele.carregaveis,arq.carregaveis,'Uma opção por tipo'],['Tipos de sistema',ele.sistemas,arq.sistemas,'Categorias específicas de cada disciplina'],['Tabelas',ele.tabelas,arq.tabelas,'Um pacote de tabelas por disciplina'],['Legendas',ele.legendas,arq.legendas,'Um pacote de legendas por disciplina'],['Modelos de vista',ele.modelosVista||'Próxima exportação',arq.modelosVista,'Um pacote de modelos de vista por disciplina'],['Total no painel',ele.itensPainel,arq.itensPainel,'Tipos + pacotes; as vistas não são cartões individuais']];id('numeros-corpo').replaceChildren(...rows.map(row=>{const tr=node('tr');for(const value of row)tr.append(node('td','',value));return tr;}));
- const labels={concluido:'CONCLUÍDO',validacao:'EM VALIDAÇÃO',pendente:'PENDENTE'};id('roadmap-steps').replaceChildren(...data.etapas.map((step,i)=>{const card=node('article','flow-step '+step.status+(i===4||i===data.etapas.length-1?' end':''));card.dataset.status=step.status;card.style.gridRow=i<5?'1':'2';card.style.gridColumn=String(i<5?i+1:i-4);const top=node('div','flow-step-top');top.append(node('span','step-number',step.id),node('span','step-status',labels[step.status]));card.append(top,node('h3','',step.titulo),node('p','',step.texto),node('small','',step.evidencia));return card;}));
+ const labels={concluido:'CONCLUÍDO',validacao:'EM VALIDAÇÃO',pendente:'PENDENTE',andamento:'EM TRABALHO'};id('roadmap-steps').replaceChildren(...data.etapas.map((step,i)=>{const card=node('article','flow-step '+step.status+(i===4||i===data.etapas.length-1?' end':''));card.dataset.status=step.status;card.style.gridRow=i<5?'1':'2';card.style.gridColumn=String(i<5?i+1:i-4);const top=node('div','flow-step-top');top.append(node('span','step-number',step.id),node('span','step-status',labels[step.status]));card.append(top,node('h3','',step.titulo),node('p','',step.texto),node('small','',step.evidencia));return card;}));
  document.querySelectorAll('[data-filter]').forEach(button=>button.addEventListener('click',()=>{const filter=button.dataset.filter;document.querySelectorAll('[data-filter]').forEach(b=>b.setAttribute('aria-pressed',String(b===button)));let count=0;document.querySelectorAll('.flow-step').forEach(card=>{const show=filter==='todos'||card.dataset.status===filter;card.classList.toggle('dimmed',!show);if(show)count++;});id('filter-note').textContent=filter==='todos'?'Leia da esquerda para a direita, linha por linha. Os filtros destacam as etapas sem apagar o caminho.':`${count} etapa(s) em destaque. As demais ficam atenuadas para preservar a sequência e as dependências.`;}));
 }
 document.querySelectorAll('[data-role]').forEach(button=>button.addEventListener('click',()=>{document.querySelectorAll('[data-role]').forEach(b=>b.setAttribute('aria-selected',String(b===button)));document.querySelectorAll('.role-panel').forEach(p=>p.hidden=p.id!=='role-'+button.dataset.role);}));

diff --git a/guia/estilo.css b/guia/estilo.css
@@ -59,3 +59,8 @@ code.path{display:block;margin:8px 0 2px;padding:9px 12px;background:#12314f;col
 @media print{.live-card .button{display:none}}
 .build-detail>*,.install-grid>*{min-width:0}
 .folder-figure img{max-width:100%}
+
+/* Alinhamento das duas áreas de instalação e etapa em trabalho. */
+.install-grid{align-items:stretch}.install-grid>.card{margin:0;height:100%}.install-card{display:flex;flex-direction:column}.install-card>.muted{margin-top:auto;padding-top:14px}.live-card>.button{margin-top:auto}.flow-step.andamento{border-color:#e0b65c}.flow-step.andamento .step-number{background:#f5ce77}.flow-step.andamento .step-status{color:#f5ce77}
+
+.install-card>.pill{align-self:flex-start}.live-card{gap:0}

diff --git a/guia/README.md b/guia/README.md
@@ -22,9 +22,9 @@ Página pública de operação, resultados e continuidade da solução P. Avelar
 Não publicar tokens, arquivos RFA/RVT privados ou logs com credenciais neste repositório. Os links dos repositórios privados exigem acesso no GitHub.
 
 ## Pendências registradas
-- Homologação do fluxo online no Revit e distribuição da próxima DLL.
-- Transferência do plugin, biblioteca e site para o GitHub da P. Avelar, com ajuste de acessos e endereços.
+- Fluxo online homologado pela equipe; novas revisões continuam sujeitas a testes.
+- Em trabalho: transferência do plugin, biblioteca e site para o GitHub da P. Avelar, com ajuste de acessos e endereços.
 - Integração dos comandos úteis do plugin legado independente.
 - Exportadores e validações das outras disciplinas.
 
-Dados conferidos em 27/10/2026: elétrica 564 tipos + 2 pacotes; arquitetura 325 tipos + 3 pacotes. A arquitetura inclui 24 paredes básicas e 48 modelos de vista. As duas disciplinas foram migradas para a biblioteca privada.
+Dados conferidos em 27/10/2026: elétrica 564 tipos + 3 pacotes; arquitetura 325 tipos + 3 pacotes. A arquitetura inclui 24 paredes básicas e 48 modelos de vista. As duas disciplinas foram migradas para a biblioteca privada. Elétrica inclui 12 modelos de vista; arquitetura inclui 48. Manutenção do instalador: G:\Drives compartilhados\BIM\PLUG INS\BIMFlow\MANUTENÇÃO INSTALADOR. Versão de referência: 1.0.43.
